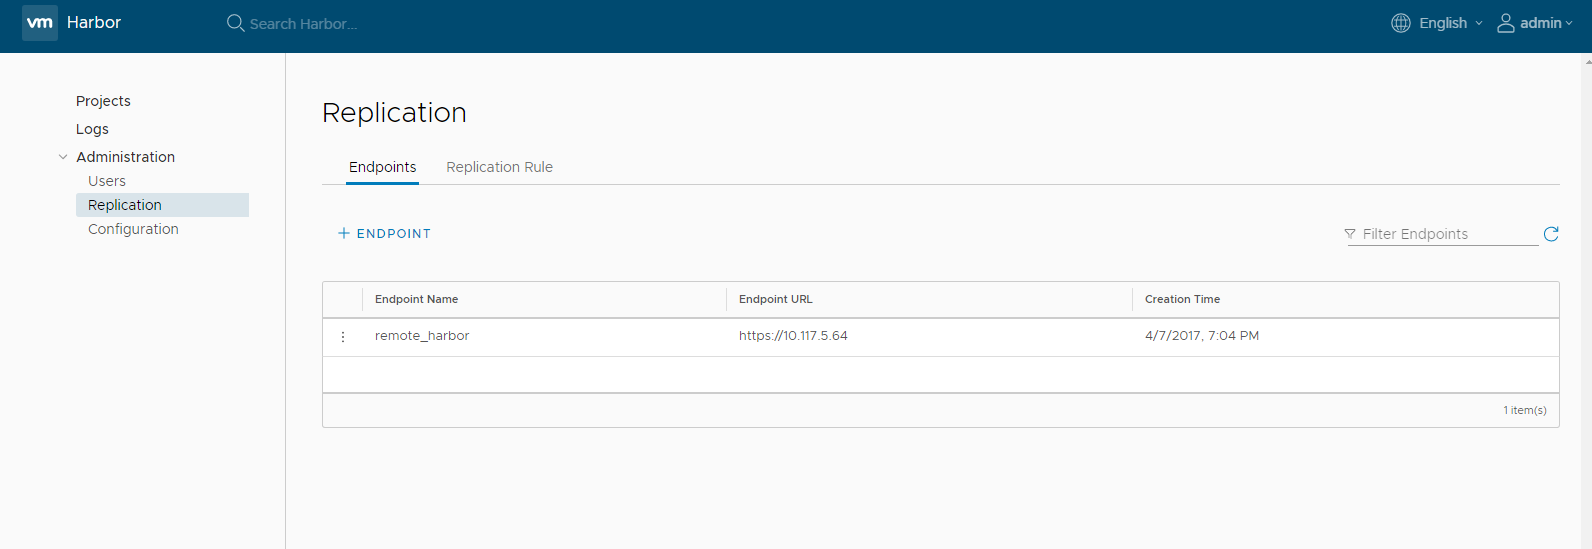
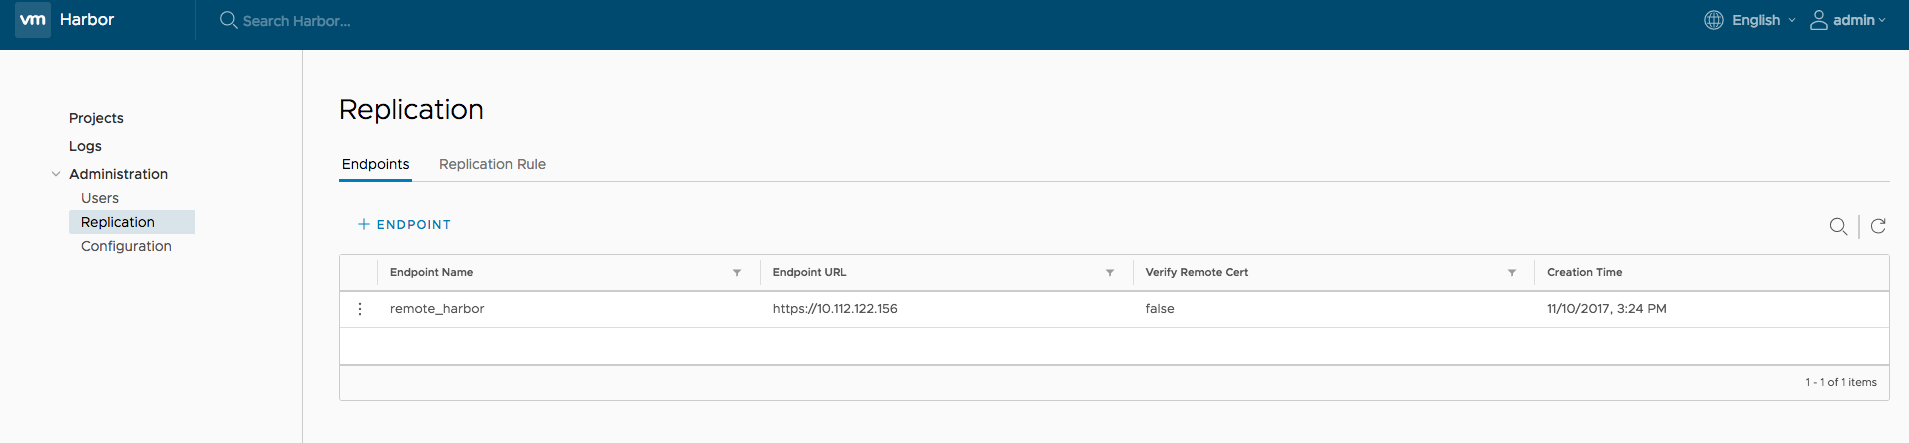
Update user guide for release 1.3

diff --git a/docs/user_guide.md b/docs/user_guide.md
@@ -70,13 +70,27 @@ You can create a project after you signed in. Check on the "Access Level" checkb
 
 ![create project](img/new_create_project.png)  
 
-After the project is created, you can browse repositories, users and logs using the navigation tab.  
+After the project is created, you can browse repositories, members, logs, replication and configuration using the navigation tab.  
 
 ![browse project](img/new_browse_project.png)  
 
 All logs can be listed by clicking "Logs". You can apply a filter by username, or operations and dates under "Advanced Search".  
 
+![browse project](img/log_search_advanced.png)
+
 ![browse project](img/new_project_log.png)  
+
+Project properties can be changed by clicking "Configuration".
+
+* To make all repositories under the project accessible to everyone, select the `Public` checkbox.
+
+* To prevent un-signed images under the project from being pulled, select the `Enable content trust` checkbox.
+
+* To prevent vulnerable images under the project from being pulled, select the `Prevent vulnerable images from running` checkbox and change the severity level of vulnerabilities. Images cannot be pulled if their level equals to or higher than the currently selected level.
+
+* To activate an immediate vulnerability scan on new images that are pushed to the project, select the `Automatically scan images on push` checkbox.
+
+![browse project](img/project_configuration.png) 
 
 ## Managing members of a project  
 ### Adding members  
@@ -98,7 +112,7 @@ There may be a bit of delay during replication according to the situation of the
 
 **Note:** The replication feature is incompatible between Harbor instance before version 0.3.5(included) and after version 0.3.5.  	
 
-Start replication by creating a rule. Click "Add Replication Rule" on the "Replication" tab, fill in the necessary fields, if there is no endpoint in the list, you need to create one, and then click "OK", a rule for this project will be created. If  "Enable" is chosen, the project will be replicated to the remote immediately.  
+Replication can be configured by creating a rule. Click "Add Replication Rule" on the "Replication" tab and fill in the necessary fields. If there is no endpoint available in the list, you need to create one. Uncheck "Verify Remote Cert" if the remote registry uses a self-signed or an untrusted certificate. Click "OK" to create a replication rule for this project. If "Enable" is chosen, the project will be replicated to the remote registry immediately.  
 
 ![browse project](img/new_create_rule.png)
 
@@ -144,10 +158,6 @@ Use the **Project Creation** drop-down menu to set which users can create projec
 ### Managing self-registration
 You can manage whether a user can sign up for a new account. This option is not available if you use LDAP authentication.  
 ![browse project](img/new_self_reg.png)
-
-### Managing verification of remote certificate
-You  can choose whether to verify remote endpoint's certification. You may need to disable certificate verification if the remote registry uses a self-signed or an untrusted certificate.  
-![browse project](img/new_remote_cert.png)
 
 ### Managing email settings
 You can change Harbor's email settings, the mail server is used to send out responses to users who request to reset their password.  
